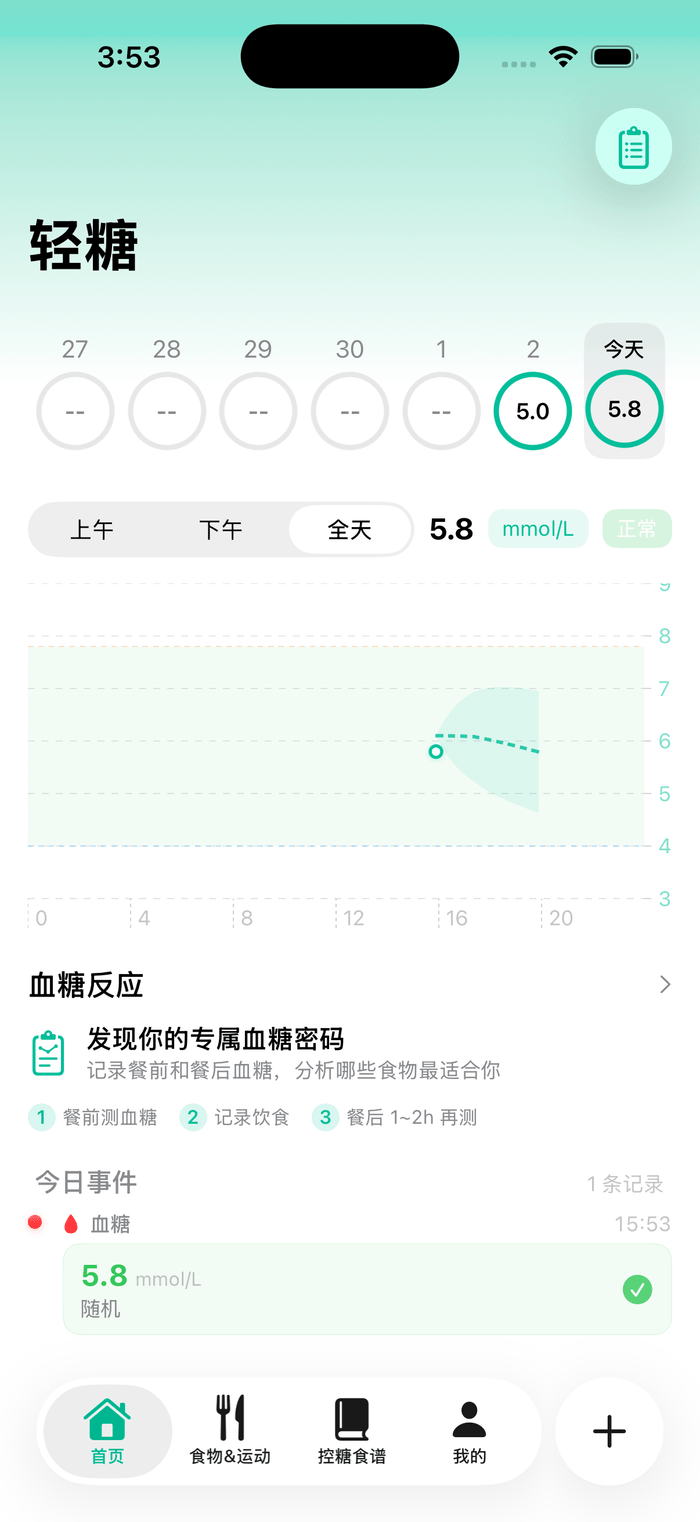
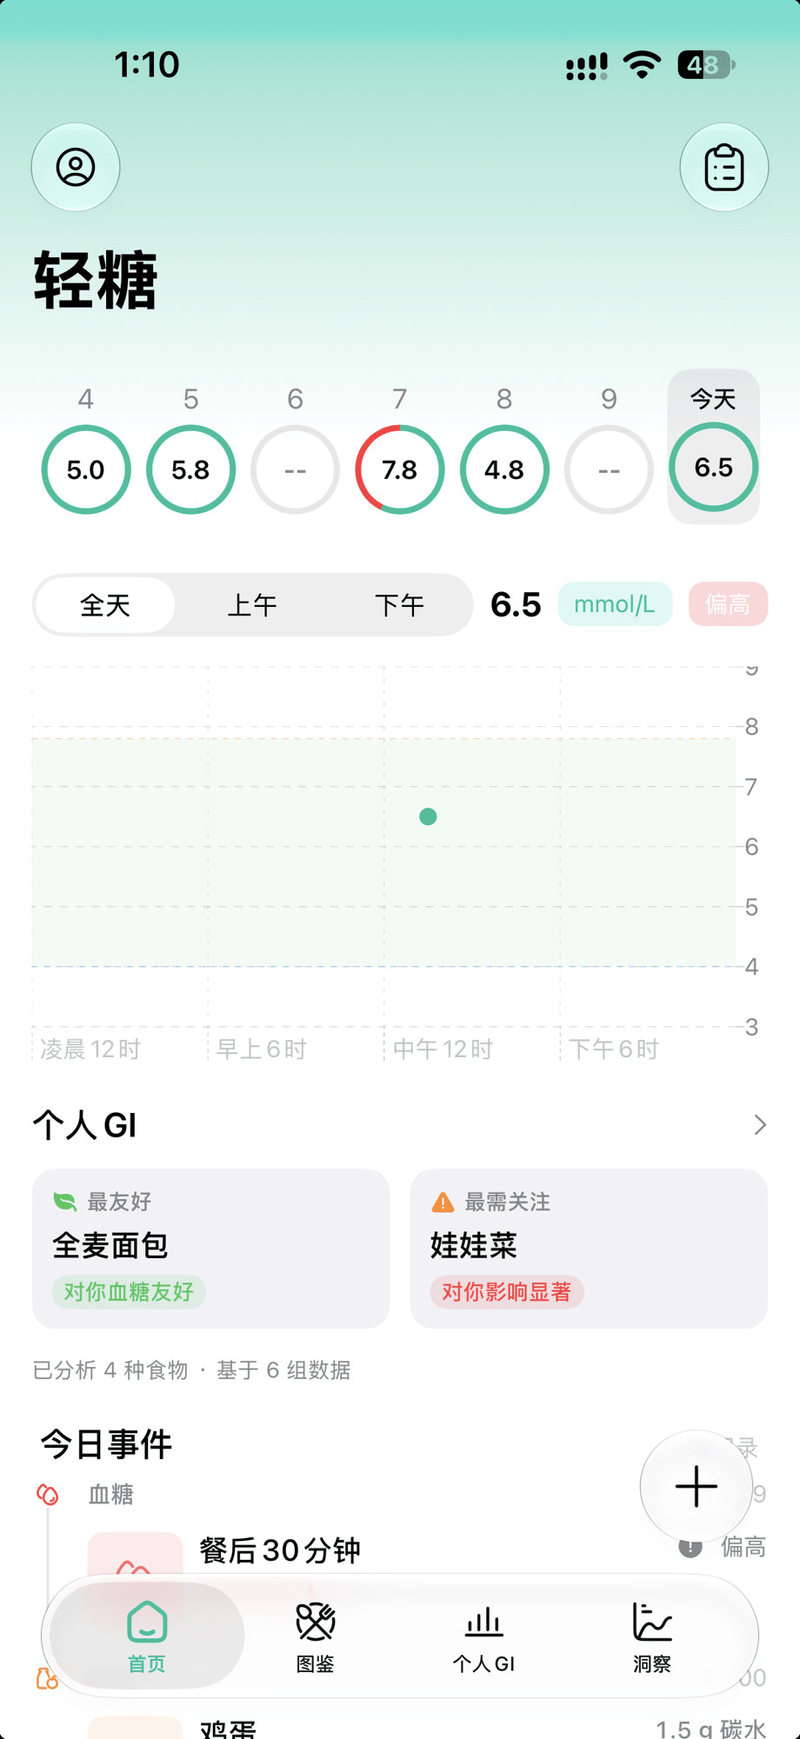
feat(ui): 更新首页 Hero App 截图（个人 GI 版界面）
- compress-images.js 支持可选 [dir] [prefix] 参数，默认行为不变
- hero-phone png/webp/avif 统一 800×1739，原件备份 public/_originals
- 同步 hero-slides/assets 副本

diff --git a/scripts/compress-images.js b/scripts/compress-images.js
@@ -2,8 +2,13 @@ import sharp from 'sharp';
 import fs from 'fs/promises';
 import path from 'path';
 
-const PREVIEW_DIR = new URL('../public/preview', import.meta.url).pathname;
+// Usage: node scripts/compress-images.js [dir] [prefix]
+// Defaults: dir = public/preview, prefix = "Screenshot"
+const argDir = process.argv[2];
+const argPrefix = process.argv[3];
+const PREVIEW_DIR = argDir ? path.resolve(argDir) : new URL('../public/preview', import.meta.url).pathname;
 const ORIGINALS_DIR = path.join(PREVIEW_DIR, '_originals');
+const PREFIX = argPrefix || 'Screenshot';
 
 async function compressImage(filename) {
   const inputPath = path.join(PREVIEW_DIR, filename);
@@ -46,7 +51,8 @@ async function main() {
   await fs.mkdir(ORIGINALS_DIR, { recursive: true });
 
   const files = (await fs.readdir(PREVIEW_DIR))
-    .filter((f) => f.endsWith('.png') && f.startsWith('Screenshot'))
+    .filter((f) => f.endsWith('.png'))
+    .filter((f) => f.startsWith(PREFIX))
     .filter((f) => !f.includes('_originals'));
 
   for (const file of files) {
